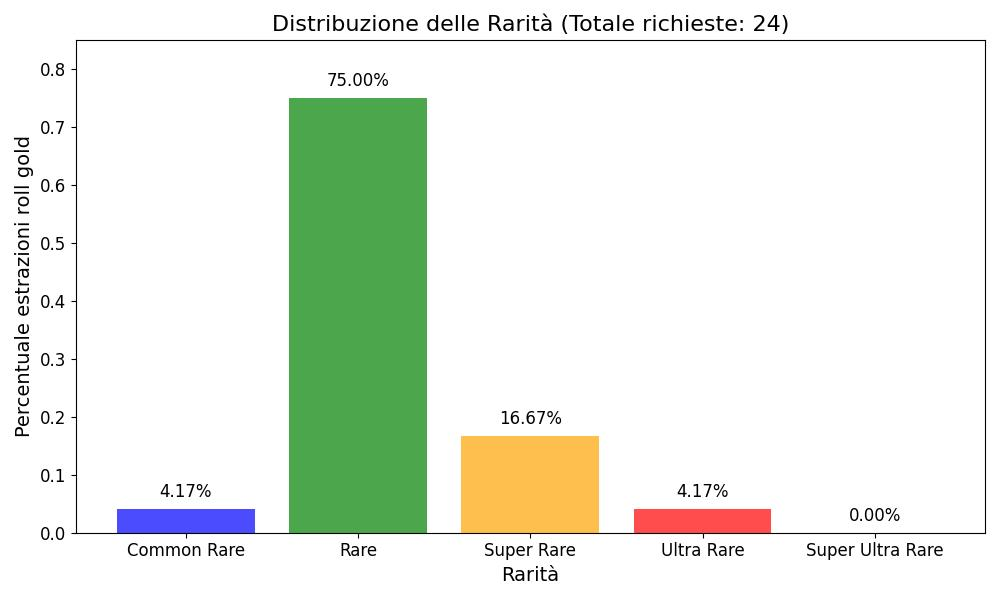
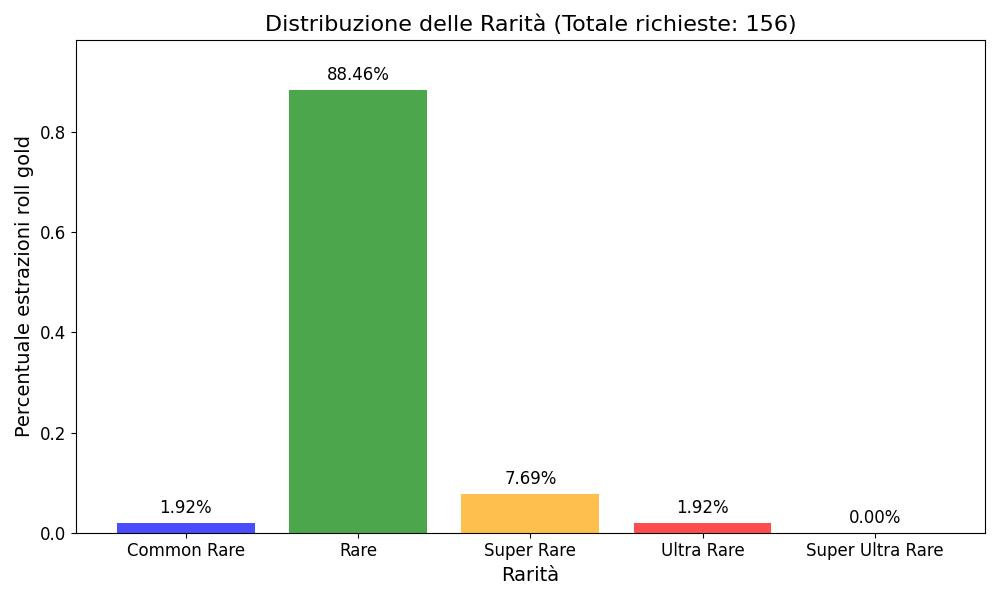
aggiornamento cartelle e locust

diff --git a/docs/locust/locust_user/locustfile.py b/docs/locust/locust_user/locustfile.py
@@ -1,7 +1,7 @@
 from locust import HttpUser, task, between, events
 import jwt
 import matplotlib.pyplot as plt
-import os
+import os, sys
 import random as rnd
 import datetime
 
@@ -55,6 +55,8 @@ def on_test_stop(environment, **kwargs):
     plot_roll_distribution(gold_distribution, "gold")
     plot_roll_distribution(platinum_distribution, "platinum")
 
+    sys.exit(0)
+
 
 class User(HttpUser):
     wait_time = between(1, 3)
@@ -106,25 +108,25 @@ class User(HttpUser):
             exception=exception
         )
 
-    @task(2)
+    @task(1)
     def get_collection(self):
         # Get headers
         headers = self.get_headers()
 
         try: 
-            with self.client.get(f'{user_host}/collection', headers=headers, timeout=5, verify=False,catch_response=True) as response:
+            with self.client.get(f'{user_host}/collection', headers=headers, timeout=10, verify=False,catch_response=True) as response:
                 if response.status_code != 200:
                     response.failure(f"GET request failed with status code {response.status_code}: {response.text}")
 
         except Exception as e:
             self.report_failure('GET', '/collection', e)
 
-    @task(2)
+    @task(1)
     def get_collection_grouped(self):
         headers = self.get_headers()
 
         try:
-            with self.client.get(f'{user_host}/collection/grouped', headers=headers, timeout=5, verify=False,catch_response=True) as response:
+            with self.client.get(f'{user_host}/collection/grouped', headers=headers, timeout=10, verify=False,catch_response=True) as response:
                 if response.status_code != 200:
                     response.failure(f"GET request failed with status code {response.status_code}: {response.text}")
 
@@ -136,7 +138,7 @@ class User(HttpUser):
         headers = self.get_headers()
 
         try:
-            with self.client.get(f'{user_host}/collection', headers=headers, timeout=5, verify=False,catch_response=True) as collection:
+            with self.client.get(f'{user_host}/collection', headers=headers, timeout=10, verify=False,catch_response=True) as collection:
 
                 gacha_ids = []
                 if collection.status_code == 200:
@@ -145,7 +147,7 @@ class User(HttpUser):
                         gacha_ids.append(data.get('gachaId'))  # Usa `.get` per evitare KeyError
 
                     for gacha in gacha_ids:
-                        with self.client.get(f'{user_host}/collection/{gacha}', headers=headers, timeout=5, verify=False,catch_response=True) as response:
+                        with self.client.get(f'{user_host}/collection/{gacha}', headers=headers, timeout=10, verify=False,catch_response=True) as response:
                             if response.status_code != 200:
                                 response.failure(f"GET request failed with status code {response.status_code}: {response.text}")
 
@@ -154,17 +156,17 @@ class User(HttpUser):
         
         
     
-    @task(3)
+    @task(1)
     def get_system_collection(self):
         try:
-            with self.client.get(f'{user_host}/system_collection', timeout=5, verify=False,catch_response=True) as response:
+            with self.client.get(f'{user_host}/system_collection', timeout=10, verify=False,catch_response=True) as response:
                 if response.status_code != 200:
                         response.failure(f"GET request failed with status code {response.status_code}: {response.text}")
 
         except Exception as e:
             self.report_failure('GET', '/system_collection', e)
     
-    @task(3)
+    @task(1)
     def get_specific_system_gacha(self):
         gacha_id = [x for x in range(1, 37)]
 
@@ -177,14 +179,17 @@ class User(HttpUser):
         except Exception as e:
             self.report_failure('GET', f'/system_collection/{gacha}', e)
     
-    @task(2)
+    @task(5)
     def roll_standard(self):
         headers = self.get_headers()
         global standard_distribution
 
         try:
             with self.client.post(f'{user_host}/roll/standard', headers=headers, timeout=10, verify=False,catch_response=True) as response:
-                if response.status_code != 200 and response.status_code != 400:
+                if response.status_code in [200,400]:
+                    # Ignora questi codici di risposta
+                    response.success()
+                else:
                     response.failure(f"POST request failed with status code {response.status_code}: {response.text}")
 
                 #codice per ricavare la rarità del gacha estratto, al fine di plottare la distribuzione di rarità:
@@ -214,14 +219,17 @@ class User(HttpUser):
         except Exception as e:
             self.report_failure('POST', '/roll/standard', e)
     
-    @task(3)
+    @task(5)
     def roll_gold(self):
         headers = self.get_headers()
         global gold_distribution
 
         try:
             with self.client.post(f'{user_host}/roll/gold', headers=headers, timeout=10, verify=False,catch_response=True) as response:
-                if response.status_code != 200 and response.status_code != 400:
+                if response.status_code in [200,400]:
+                    # Ignora questi codici di risposta
+                    response.success()
+                else:
                     response.failure(f"POST request failed with status code {response.status_code}: {response.text}")
                 
                 #codice per ricavare la rarità del gacha estratto, al fine di plottare la distribuzione di rarità:
@@ -251,14 +259,17 @@ class User(HttpUser):
         except Exception as e:
             self.report_failure('POST', '/roll/gold', e)
     
-    @task(1)
+    @task(2)
     def roll_platinum(self):
         headers = self.get_headers()
         global platinum_distribution
 
         try:
             with self.client.post(f'{user_host}/roll/platinum', headers=headers, timeout=10, verify=False,catch_response=True) as response:
-                if response.status_code != 200 and response.status_code != 400:
+                if response.status_code in [200,400]:
+                    # Ignora questi codici di risposta
+                    response.success()
+                else:
                     response.failure(f"POST request failed with status code {response.status_code}: {response.text}")
                 
 
@@ -293,7 +304,7 @@ class User(HttpUser):
     def get_market(self):  
         headers = self.get_headers()
         try:
-            with self.client.get(f'{user_host}/auction_market/market', headers=headers, timeout=5, verify=False,catch_response=True) as response:
+            with self.client.get(f'{user_host}/auction_market/market', headers=headers, timeout=10, verify=False,catch_response=True) as response:
                 if response.status_code != 200:
                     response.failure(f"GET request failed with status code {response.status_code}: {response.text}")
 
@@ -314,12 +325,15 @@ class User(HttpUser):
             "auction_end": "2024-12-31 12:00:00"
         } 
         try:
-            with self.client.post(f'{user_host}/auction_market/market', json=body,headers=headers, timeout=5, verify=False,catch_response=True) as response:
-                if response.status_code != 201 and response.status_code != 400 and response.status_code != 403 and response.status_code != 409 and response.status_code != 404:
+            with self.client.post(f'{user_host}/auction_market/market', json=body, headers=headers, timeout=10, verify=False, catch_response=True) as response:
+                if response.status_code in [201, 400, 409, 404]:
+                    # Ignora questi codici di risposta
+                    response.success()
+                else:
                     response.failure(f"POST request failed with status code {response.status_code}: {response.text}")
-
         except Exception as e:
             self.report_failure('POST', '/auction_market/market', e)
+
 
     @task(1)
     def place_bid(self):  
@@ -335,10 +349,12 @@ class User(HttpUser):
             "bid_amount": bid_amount
         } 
         try:
-            with self.client.post(f'{user_host}/auction_market/market/bid', json=body,headers=headers, timeout=5, verify=False,catch_response=True) as response:
-                if response.status_code != 201 and response.status_code != 400 and response.status_code != 404:
+            with self.client.post(f'{user_host}/auction_market/market/bid', json=body, headers=headers, timeout=10, verify=False, catch_response=True) as response:
+                if response.status_code in [201, 400, 404]:
+                    # Ignora questi codici di risposta
+                    response.success()
+                else:
                     response.failure(f"POST request failed with status code {response.status_code}: {response.text}")
-
         except Exception as e:
             self.report_failure('POST', '/auction_market/market/bid', e)
     
